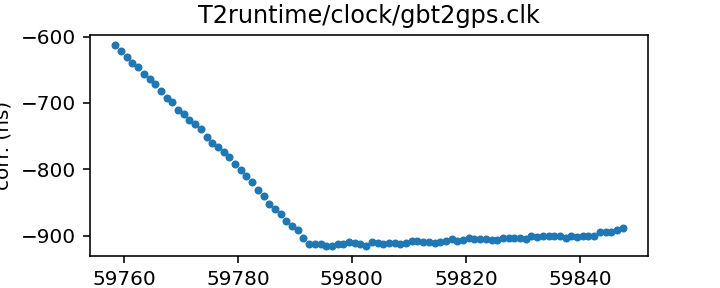
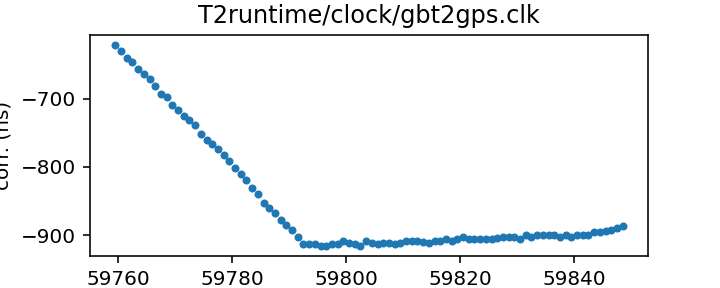
Routine gh-pages update from Github action Tue Sep 27 20:42:20 UTC 2022

diff --git a/status.md b/status.md
@@ -13,17 +13,17 @@ name of each clock file links to a page with more details.
 
 | Name | File | Corrections start | Corrections end | Last check date | Last check result 
 |:--- |:--- | --- | --- | --- |:--- 
-| [GPS to UTC](T2runtime/clock/gps2utc.clk.html) | `T2runtime/clock/gps2utc.clk` | 1993-01-01 MJD 48988.0 | 2022-08-28 MJD 59819.0 | 2022-09-26 | Unchanged 
-| [GPS to UTC (Combined Clock)](T2runtime/clock/gps2utc_cc.clk.html) | `T2runtime/clock/gps2utc_cc.clk` | 1993-01-01 MJD 48988.0 | 2022-08-28 MJD 59819.0 | 2022-09-26 | Unchanged 
-| [GPS to UTC (Corrected)](T2runtime/clock/gps2utc_c0p.clk.html) | `T2runtime/clock/gps2utc_c0p.clk` | 2010-12-29 MJD 55559.0 | 2022-08-28 MJD 59819.0 | 2022-09-26 | Unchanged 
-| [GBT](tempo/clock/time_gbt.dat.html) | `tempo/clock/time_gbt.dat` | 2000-12-31 MJD 51909.5 | 2022-09-25 MJD 59847.5 | 2022-09-26 | Updated 
-| [GBT (TEMPO2 converted from TEMPO)](T2runtime/clock/gbt2gps.clk.html) | `T2runtime/clock/gbt2gps.clk` | 2000-12-31 MJD 51909.5 | 2022-09-25 MJD 59847.5 | 2022-09-26 | Updated 
+| [GPS to UTC](T2runtime/clock/gps2utc.clk.html) | `T2runtime/clock/gps2utc.clk` | 1993-01-01 MJD 48988.0 | 2022-08-28 MJD 59819.0 | 2022-09-27 | Unchanged 
+| [GPS to UTC (Combined Clock)](T2runtime/clock/gps2utc_cc.clk.html) | `T2runtime/clock/gps2utc_cc.clk` | 1993-01-01 MJD 48988.0 | 2022-08-28 MJD 59819.0 | 2022-09-27 | Unchanged 
+| [GPS to UTC (Corrected)](T2runtime/clock/gps2utc_c0p.clk.html) | `T2runtime/clock/gps2utc_c0p.clk` | 2010-12-29 MJD 55559.0 | 2022-08-28 MJD 59819.0 | 2022-09-27 | Unchanged 
+| [GBT](tempo/clock/time_gbt.dat.html) | `tempo/clock/time_gbt.dat` | 2000-12-31 MJD 51909.5 | 2022-09-26 MJD 59848.5 | 2022-09-27 | Updated 
+| [GBT (TEMPO2 converted from TEMPO)](T2runtime/clock/gbt2gps.clk.html) | `T2runtime/clock/gbt2gps.clk` | 2000-12-31 MJD 51909.5 | 2022-09-26 MJD 59848.5 | 2022-09-27 | Updated 
 | [Jodrell Bank](T2runtime/clock/jb2gps.clk.html) | `T2runtime/clock/jb2gps.clk` | 2006-10-13 MJD 54021.4 | 2021-11-03 MJD 59521.0 | 2022-09-21 | Unchanged 
 | [Jodrell Bank Roach](T2runtime/clock/jbroach2jb.clk.html) | `T2runtime/clock/jbroach2jb.clk` | 2006-10-13 MJD 54021.4 | 2018-03-20 MJD 58197.6 | 2022-09-21 | Unchanged 
 | [Jodrell Bank DFB](T2runtime/clock/jbdfb2jb.clk.html) | `T2runtime/clock/jbdfb2jb.clk` | 2006-10-13 MJD 54021.4 | 2017-05-11 MJD 57884.0 | 2022-09-21 | Unchanged 
 | [Meerkat (observatory)](T2runtime/clock/mk2utc_observatory.clk.html) | `T2runtime/clock/mk2utc_observatory.clk` | 2019-01-01 MJD 58484.0 | 2022-08-28 MJD 59820.0 | 2022-09-26 | **Failed to download** 
-| [Leap seconds](tempo/clock/leap.sec.html) | `tempo/clock/leap.sec` | 1972-07-01 MJD 41499.0 | 2017-01-01 MJD 57754.0 | 2022-09-26 | Unchanged 
-| [UT1 table](tempo/clock/ut1.dat.html) | `tempo/clock/ut1.dat` | 1973-01-02 MJD 41684.0 | 2023-09-30 MJD 60217.0 | 2022-09-26 | Unchanged 
+| [Leap seconds](tempo/clock/leap.sec.html) | `tempo/clock/leap.sec` | 1972-07-01 MJD 41499.0 | 2017-01-01 MJD 57754.0 | 2022-09-27 | Unchanged 
+| [UT1 table](tempo/clock/ut1.dat.html) | `tempo/clock/ut1.dat` | 1973-01-02 MJD 41684.0 | 2023-09-30 MJD 60217.0 | 2022-09-27 | Unchanged 
 
 
 

diff --git a/T2runtime/clock/gbt2gps.clk.md b/T2runtime/clock/gbt2gps.clk.md
@@ -23,14 +23,13 @@ If questions arise about the conversion, contact Anne Archibald
 | Format | tempo2 |
 | Bogus last correction | False |
 | Clock file start | 2000-12-31 MJD 51909.5 |
-| Clock file end | 2022-09-25 MJD 59847.5 |
+| Clock file end | 2022-09-26 MJD 59848.5 |
 | Update interval (days) | 1 |
-| Last update attempt | 2022-09-26 |
+| Last update attempt | 2022-09-27 |
 | Last update result | Updated |
 
 Log entries from the last few update attempts:
 ```
-2022-09-17 20:36:45.168 - Updated
 2022-09-18 20:37:36.239 - Updated
 2022-09-19 20:40:30.048 - Updated
 2022-09-20 20:39:15.654 - Updated
@@ -40,12 +39,13 @@ Log entries from the last few update attempts:
 2022-09-24 20:37:27.397 - Updated
 2022-09-25 20:37:44.833 - Updated
 2022-09-26 20:39:24.417 - Updated
+2022-09-27 20:41:45.110 - Updated
 ```
 [Full log](https://raw.githubusercontent.com/ipta/pulsar-clock-corrections/main/log/T2runtime/clock/gbt2gps.clk.log)
 
 Leading comments from clock file:
 
-    # This file was automatically converted from tempo/clock/time_gbt.dat on 2022-09-26 20:39:24.347
+    # This file was automatically converted from tempo/clock/time_gbt.dat on 2022-09-27 20:41:45.007
 
 
 

diff --git a/tempo/clock/time_gbt.dat.md b/tempo/clock/time_gbt.dat.md
@@ -18,14 +18,13 @@ If questions arise, contact Ryan S. Lynch <rlynch@nrao.edu>.
 | Format | tempo |
 | Bogus last correction | False |
 | Clock file start | 2000-12-31 MJD 51909.5 |
-| Clock file end | 2022-09-25 MJD 59847.5 |
+| Clock file end | 2022-09-26 MJD 59848.5 |
 | Update interval (days) | 1 |
-| Last update attempt | 2022-09-26 |
+| Last update attempt | 2022-09-27 |
 | Last update result | Updated |
 
 Log entries from the last few update attempts:
 ```
-2022-09-17 20:36:45.098 - Updated
 2022-09-18 20:37:36.165 - Updated
 2022-09-19 20:40:29.461 - Updated
 2022-09-20 20:39:15.581 - Updated
@@ -35,6 +34,7 @@ Log entries from the last few update attempts:
 2022-09-24 20:37:27.318 - Updated
 2022-09-25 20:37:44.747 - Updated
 2022-09-26 20:39:23.953 - Updated
+2022-09-27 20:41:45.004 - Updated
 ```
 [Full log](https://raw.githubusercontent.com/ipta/pulsar-clock-corrections/main/log/tempo/clock/time_gbt.dat.log)
 

diff --git a/T2runtime/clock/gps2utc_c0p.clk.md b/T2runtime/clock/gps2utc_c0p.clk.md
@@ -30,12 +30,11 @@ about the BIPM's published corrections, contact <tai@bipm.org>.
 | Clock file start | 2010-12-29 MJD 55559.0 |
 | Clock file end | 2022-08-28 MJD 59819.0 |
 | Update interval (days) | 1 |
-| Last update attempt | 2022-09-26 |
+| Last update attempt | 2022-09-27 |
 | Last update result | Unchanged |
 
 Log entries from the last few update attempts:
 ```
-2022-09-17 20:36:44.652 - Unchanged
 2022-09-18 20:37:35.426 - Unchanged
 2022-09-19 20:40:28.579 - Unchanged
 2022-09-20 20:39:15.031 - Unchanged
@@ -45,6 +44,7 @@ Log entries from the last few update attempts:
 2022-09-24 20:37:25.918 - Unchanged
 2022-09-25 20:37:43.696 - Unchanged
 2022-09-26 20:39:22.858 - Unchanged
+2022-09-27 20:41:43.987 - Unchanged
 ```
 [Full log](https://raw.githubusercontent.com/ipta/pulsar-clock-corrections/main/log/T2runtime/clock/gps2utc_c0p.clk.log)
 

diff --git a/T2runtime/clock/gps2utc_cc.clk.md b/T2runtime/clock/gps2utc_cc.clk.md
@@ -29,12 +29,11 @@ about the BIPM's published corrections, contact <tai@bipm.org>.
 | Clock file start | 1993-01-01 MJD 48988.0 |
 | Clock file end | 2022-08-28 MJD 59819.0 |
 | Update interval (days) | 1 |
-| Last update attempt | 2022-09-26 |
+| Last update attempt | 2022-09-27 |
 | Last update result | Unchanged |
 
 Log entries from the last few update attempts:
 ```
-2022-09-17 20:36:44.641 - Unchanged
 2022-09-18 20:37:35.414 - Unchanged
 2022-09-19 20:40:28.567 - Unchanged
 2022-09-20 20:39:15.020 - Unchanged
@@ -44,6 +43,7 @@ Log entries from the last few update attempts:
 2022-09-24 20:37:25.906 - Unchanged
 2022-09-25 20:37:43.682 - Unchanged
 2022-09-26 20:39:22.847 - Unchanged
+2022-09-27 20:41:43.973 - Unchanged
 ```
 [Full log](https://raw.githubusercontent.com/ipta/pulsar-clock-corrections/main/log/T2runtime/clock/gps2utc_cc.clk.log)
 

diff --git a/T2runtime/clock/gps2utc.clk.md b/T2runtime/clock/gps2utc.clk.md
@@ -32,12 +32,11 @@ about the BIPM's published corrections, contact <tai@bipm.org>.
 | Clock file start | 1993-01-01 MJD 48988.0 |
 | Clock file end | 2022-08-28 MJD 59819.0 |
 | Update interval (days) | 1 |
-| Last update attempt | 2022-09-26 |
+| Last update attempt | 2022-09-27 |
 | Last update result | Unchanged |
 
 Log entries from the last few update attempts:
 ```
-2022-09-17 20:36:44.609 - Unchanged
 2022-09-18 20:37:35.380 - Unchanged
 2022-09-19 20:40:28.529 - Unchanged
 2022-09-20 20:39:14.988 - Unchanged
@@ -47,6 +46,7 @@ Log entries from the last few update attempts:
 2022-09-24 20:37:25.869 - Unchanged
 2022-09-25 20:37:43.634 - Unchanged
 2022-09-26 20:39:22.814 - Unchanged
+2022-09-27 20:41:43.926 - Unchanged
 ```
 [Full log](https://raw.githubusercontent.com/ipta/pulsar-clock-corrections/main/log/T2runtime/clock/gps2utc.clk.log)
 

diff --git a/tempo/clock/leap.sec.md b/tempo/clock/leap.sec.md
@@ -21,12 +21,11 @@ If there are any questions, contact Anne Archibald
 | File start | 1972-07-01 MJD 41499.0 |
 | File end | 2017-01-01 MJD 57754.0 |
 | Update interval (days) | 0 |
-| Last update attempt | 2022-09-26 |
+| Last update attempt | 2022-09-27 |
 | Last update result | Unchanged |
 
 Log entries from the last few update attempts:
 ```
-2022-09-17 20:36:45.201 - Unchanged
 2022-09-18 20:37:36.274 - Unchanged
 2022-09-19 20:40:34.429 - Unchanged
 2022-09-20 20:39:15.684 - Unchanged
@@ -36,5 +35,6 @@ Log entries from the last few update attempts:
 2022-09-24 20:37:27.442 - Unchanged
 2022-09-25 20:37:44.874 - Unchanged
 2022-09-26 20:39:35.327 - Unchanged
+2022-09-27 20:41:45.172 - Unchanged
 ```
 [Full log](https://raw.githubusercontent.com/ipta/pulsar-clock-corrections/main/log/tempo/clock/leap.sec.log)

diff --git a/tempo/clock/ut1.dat.md b/tempo/clock/ut1.dat.md
@@ -30,12 +30,11 @@ If there are any questions, contact Anne Archibald
 | File start | 1973-01-02 MJD 41684.0 |
 | File end | 2023-09-30 MJD 60217.0 |
 | Update interval (days) | 0 |
-| Last update attempt | 2022-09-26 |
+| Last update attempt | 2022-09-27 |
 | Last update result | Unchanged |
 
 Log entries from the last few update attempts:
 ```
-2022-09-17 20:36:53.806 - Unchanged
 2022-09-18 20:37:47.072 - Unchanged
 2022-09-19 20:40:52.761 - Unchanged
 2022-09-20 20:39:25.295 - Unchanged
@@ -45,5 +44,6 @@ Log entries from the last few update attempts:
 2022-09-24 20:37:44.518 - Unchanged
 2022-09-25 20:37:57.318 - Unchanged
 2022-09-26 20:39:45.492 - Unchanged
+2022-09-27 20:41:57.840 - Unchanged
 ```
 [Full log](https://raw.githubusercontent.com/ipta/pulsar-clock-corrections/main/log/tempo/clock/ut1.dat.log)
